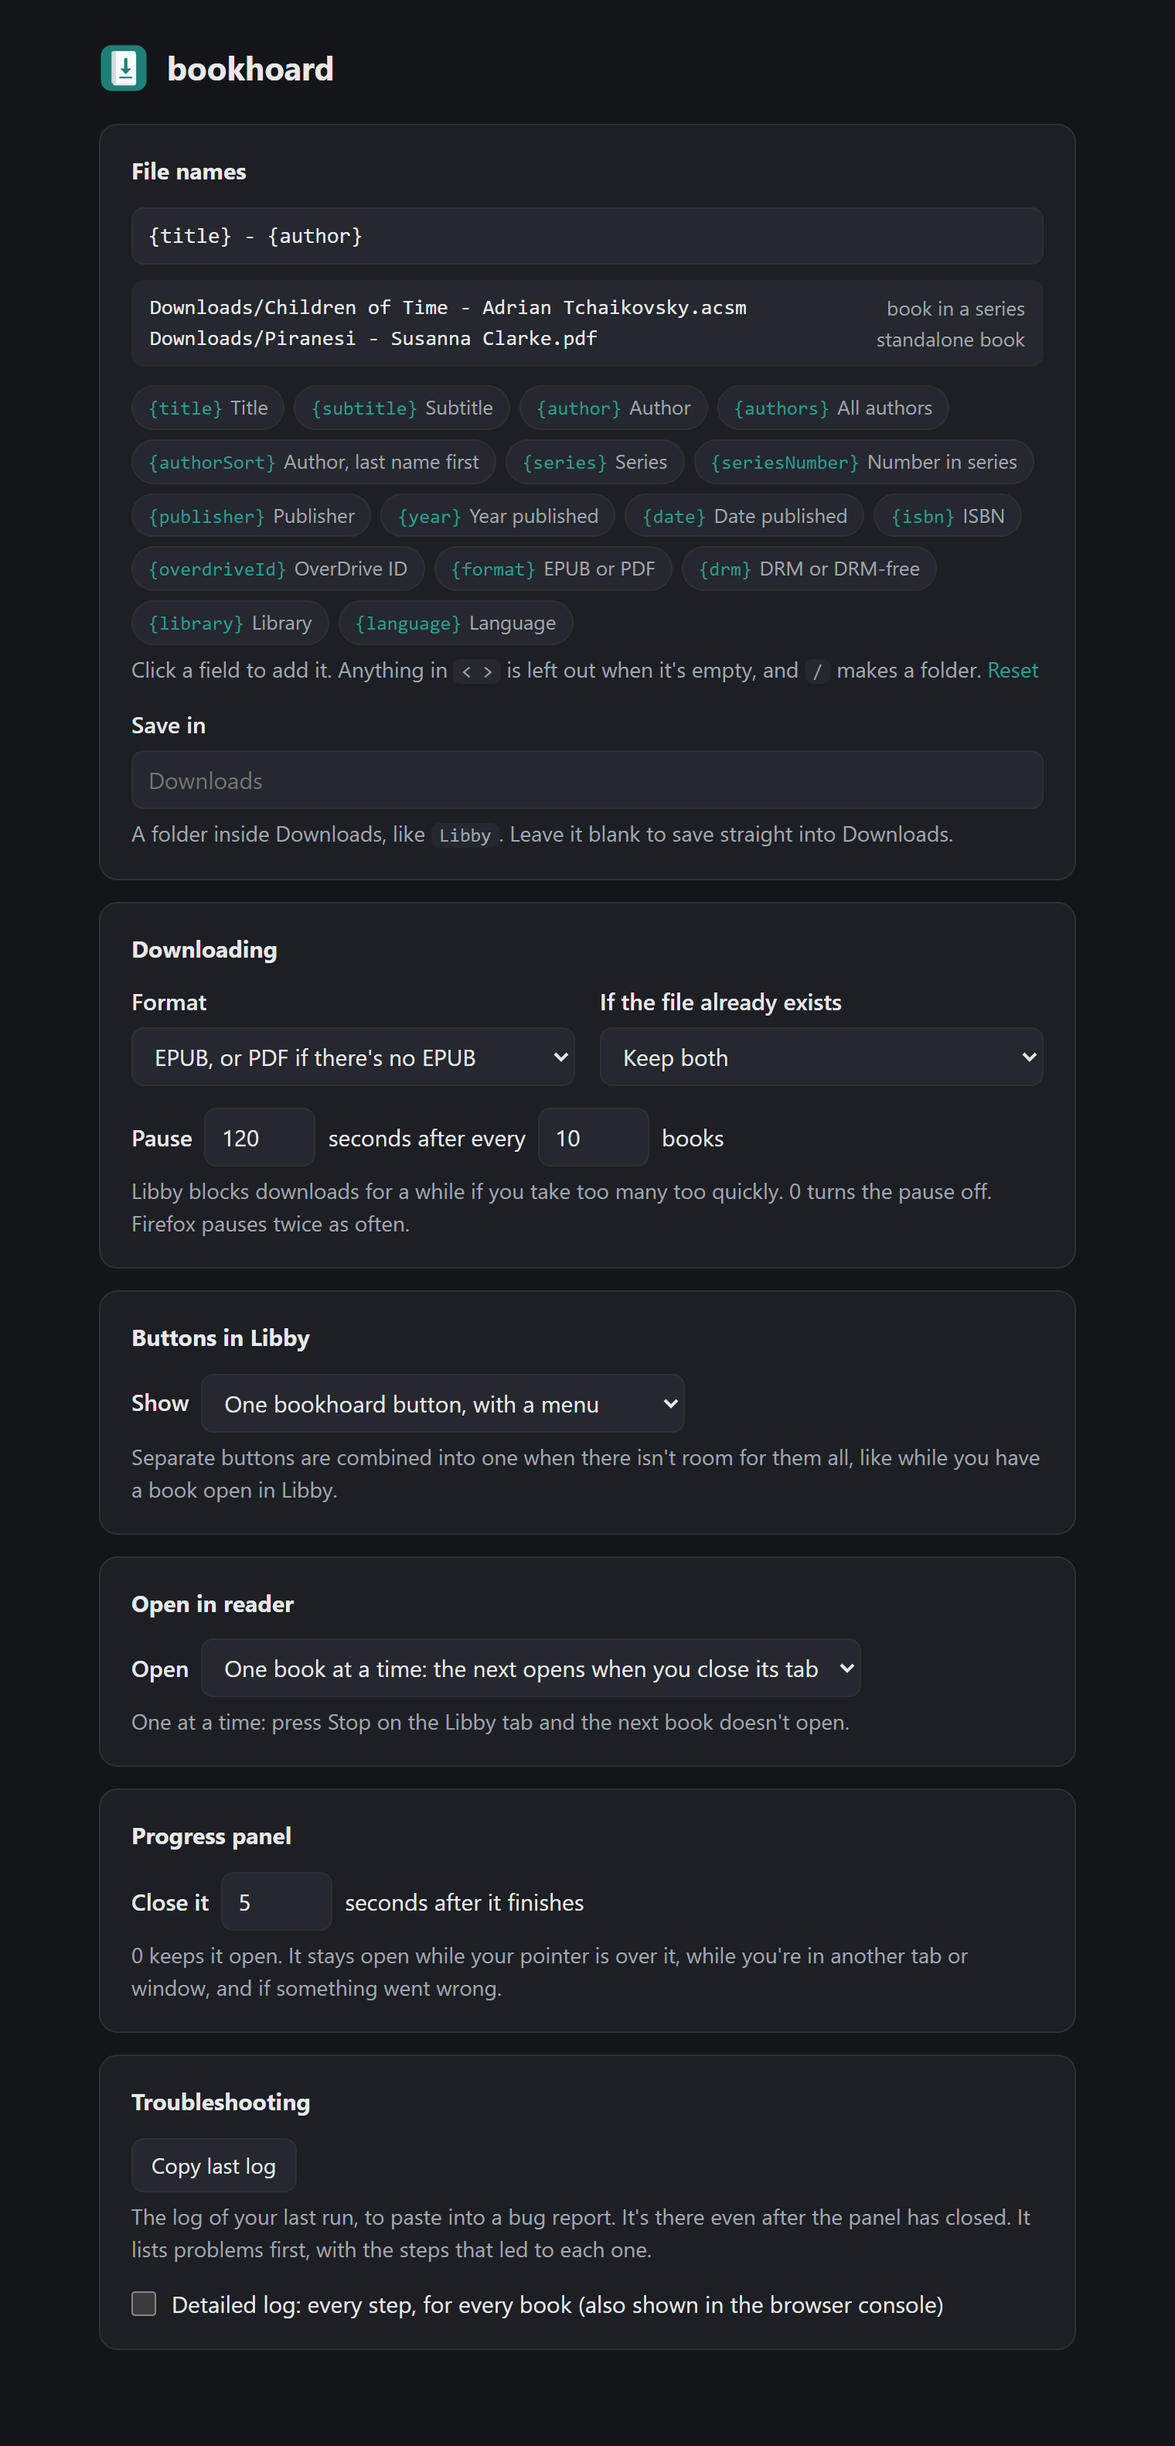
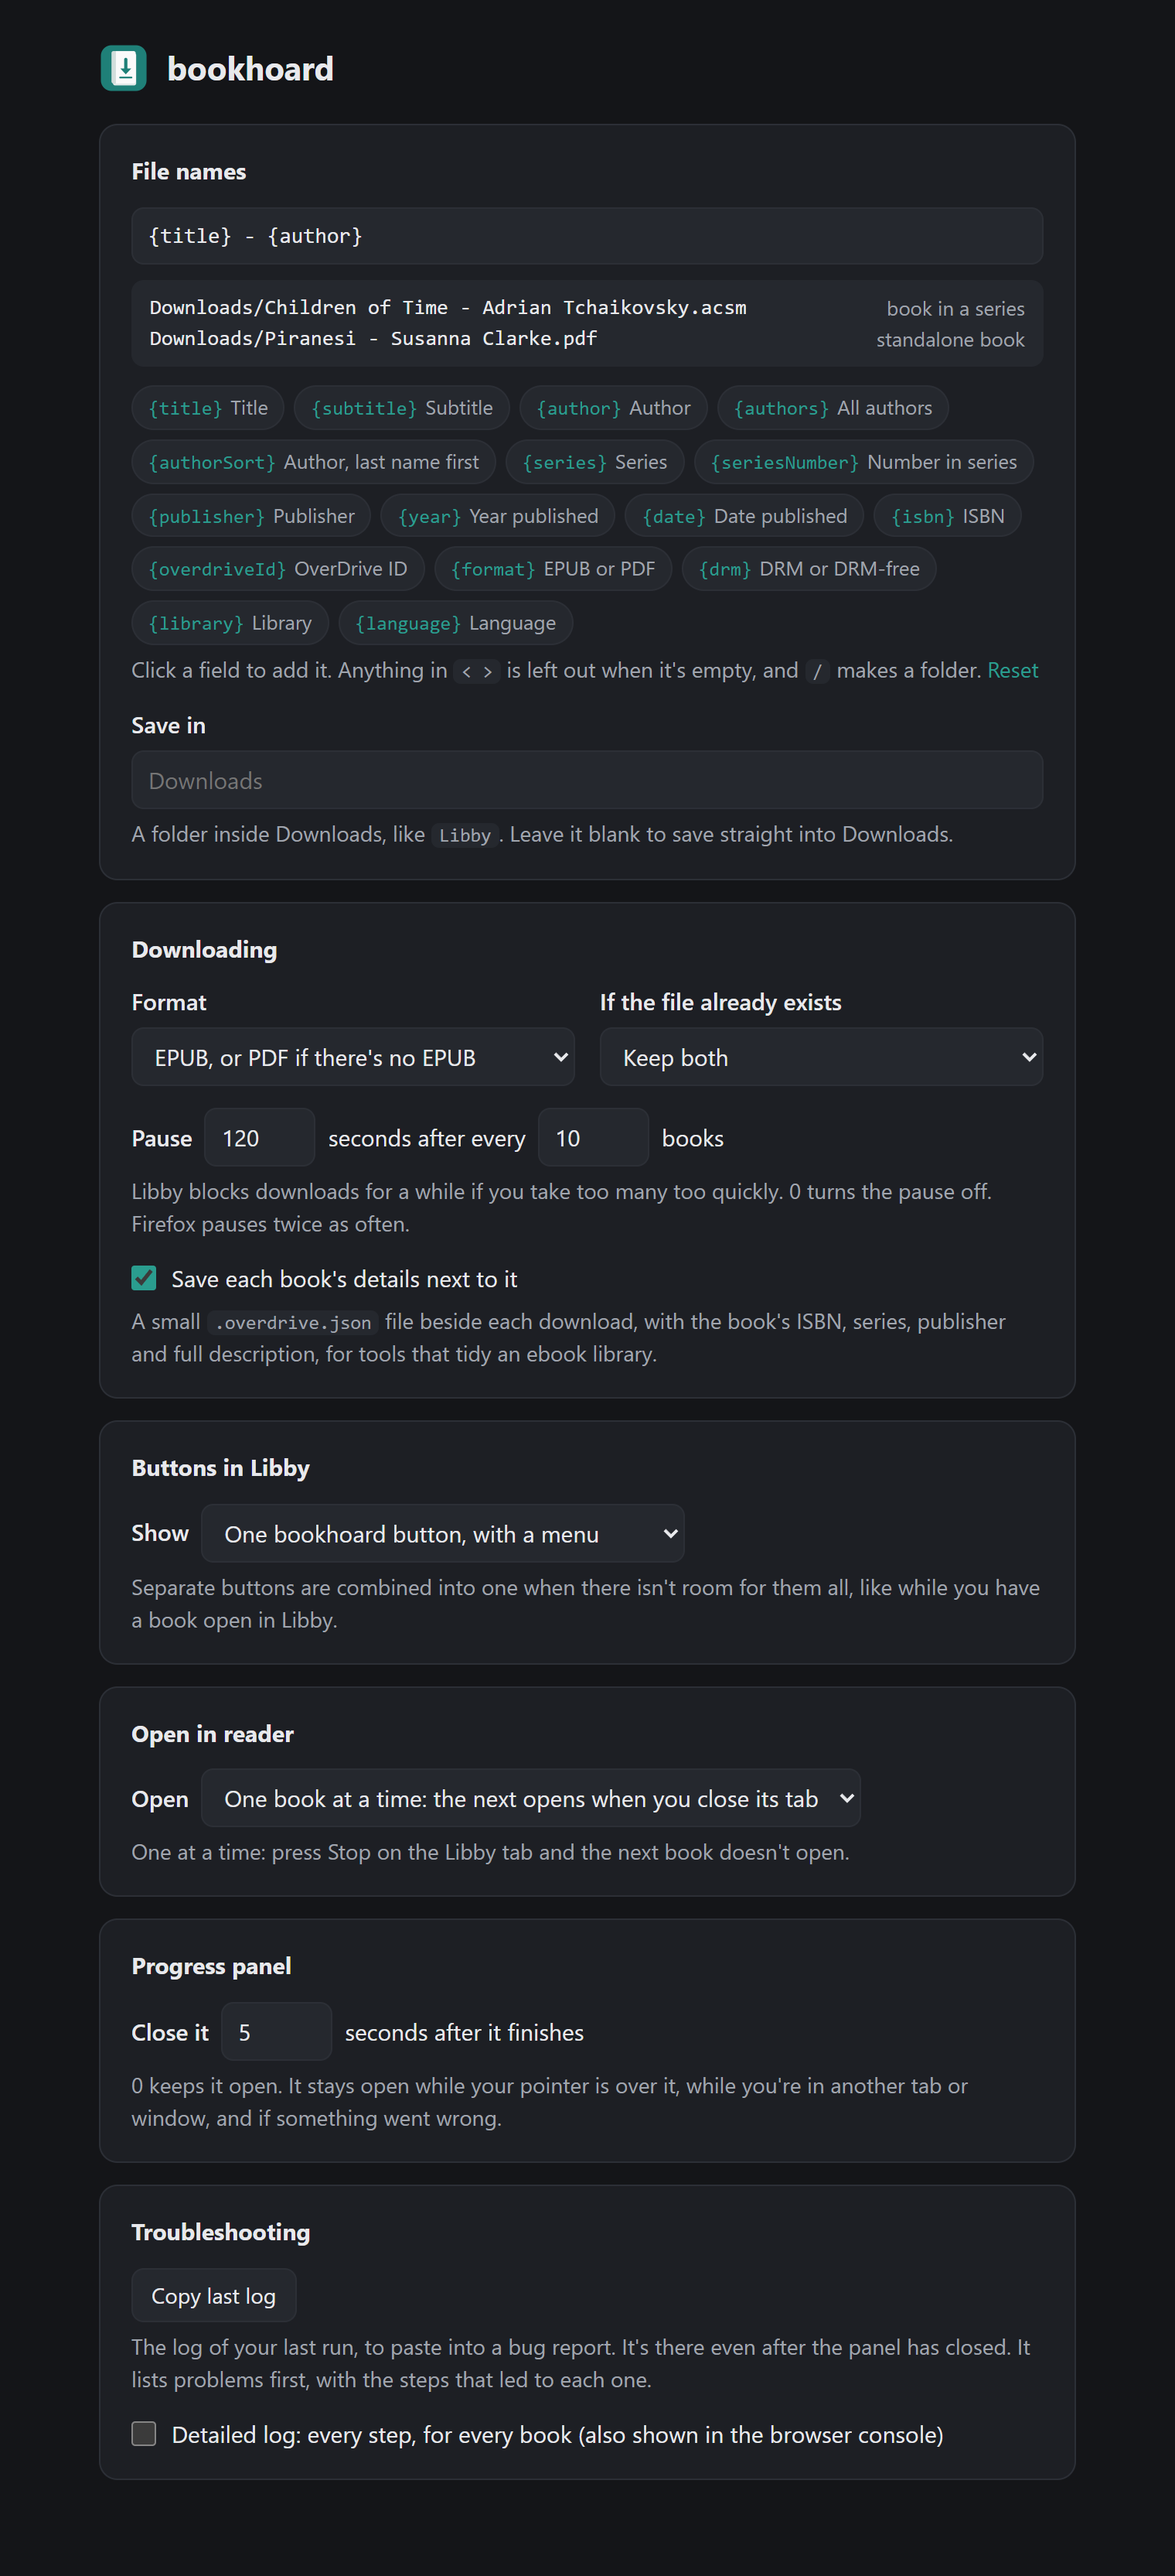
Save each book's details next to its download
A <book name>.overdrive.json file beside each finished download, with the book's
OverDrive ID, ISBNs, title, authors, series and number, publisher, date, subjects and
full description, so an ebook manager can tidy the book without guessing its edition.
On by default; 'Save each book's details next to it' in the options turns it off. The
file's entry is cleared from the browser's download list; the file stays.

diff --git a/src/background.js b/src/background.js
@@ -2,7 +2,7 @@
 // questions (book details, was this already downloaded, which format is about to be chosen).
 
 import { DEFAULTS, buildPath } from './template.js';
-import { fetchMedia, formatIds, parseFulfillUrl, variables } from './metadata.js';
+import { detailsFile, fetchMedia, formatIds, parseFulfillUrl, variables } from './metadata.js';
 
 const api = globalThis.browser ?? globalThis.chrome;
 const sessionStore = api.storage.session ?? api.storage.local;
@@ -67,6 +67,7 @@ function remembered(id, book) {
 
 function bookOf(item) {
   if (known.has(item.id)) return known.get(item.id);
+  if (detailsDownloads.has(item.id) || detailsNames.has(item.url)) return null;  // our own details files
   for (const u of [item.url, item.finalUrl]) {
     if (!u) continue;
     const link = parseFulfillUrl(u) ? u : redirectedFrom.get(u);
@@ -103,6 +104,7 @@ async function targetFor(book) {
   const vars = variables(details, download, format);
   if (!vars.title) vars.title = shortUrl(url).split('_')[0];
   const filename = buildPath(settings, vars, download.ext);
+  book.filename = filename;  // the details file goes next to it
   log('naming', shortUrl(url), '->', filename, vars);
   await remember({ from: shortUrl(url), to: filename, lookedUp: !!details });
   return { filename, conflictAction: settings.conflict };
@@ -139,13 +141,51 @@ function recordDownload(overdriveId, downloadId) {
   return recordQueue;
 }
 
+// ---- Book details files ---------------------------------------------------------------------
+//
+// With "Save each book's details next to it" on, a finished book gets <its name>.overdrive.json
+// beside it: ISBN, series, publisher, the full description and so on, straight from OverDrive's
+// catalog, so an ebook manager can tidy it without guessing the edition. The file's entry is then
+// cleared from the browser's download list (the file stays), so the list shows only books.
+
+const detailsDownloads = new Set();
+const detailsNames = new Map();  // details file address -> its name (Chrome asks the naming hook below)
+async function saveDetails(book) {
+  const settings = await getSettings();
+  if (!settings.saveDetails || !book.filename || book.detailsSaved) return;
+  book.detailsSaved = true;
+  try {
+    const json = JSON.stringify(detailsFile(await media(book.download.overdriveId), book.download), null, 2);
+    // Chrome's background has no Blob URLs; Firefox's downloads refuse data: URLs.
+    const url = typeof URL.createObjectURL === 'function'
+      ? URL.createObjectURL(new Blob([json], { type: 'application/json' }))
+      : `data:application/json;charset=utf-8,${encodeURIComponent(json)}`;
+    const filename = book.filename.replace(/\.(acsm|epub|pdf)$/i, '') + '.overdrive.json';
+    detailsNames.set(url, filename);
+    const id = await api.downloads.download({ url, filename, conflictAction: 'overwrite', saveAs: false });
+    detailsDownloads.add(id);
+    log('saved details:', filename);
+  } catch (err) {
+    fail(`could not save the details file for ${book.download.overdriveId}:`, err);
+  }
+}
+
 // Remember finished downloads by book, so "already downloaded" works whatever address the browser
-// recorded.
+// recorded; and save the book's details file next to it.
 api.downloads.onChanged.addListener(async delta => {
   if (delta.state?.current !== 'complete') return;
   const [item] = await api.downloads.search({ id: delta.id });
+  if (detailsDownloads.has(delta.id) || detailsNames.has(item?.url)) {
+    detailsDownloads.delete(delta.id);
+    if (item?.url?.startsWith('blob:')) URL.revokeObjectURL(item.url);
+    detailsNames.delete(item?.url);
+    await api.downloads.erase({ id: delta.id }).catch(() => {});
+    return;
+  }
   const book = item && bookOf(item);
-  if (book) await recordDownload(book.download.overdriveId, delta.id);
+  if (!book) return;
+  await recordDownload(book.download.overdriveId, delta.id);
+  await saveDetails(book);
 });
 
 // OverDrive's download server answers 429 Too Many Requests when books are fetched too fast.
@@ -169,6 +209,11 @@ let retryRenames = async () => 0;
 if (api.downloads.onDeterminingFilename) {
   // Chrome and Edge: suggest the name as the download starts.
   api.downloads.onDeterminingFilename.addListener((item, suggest) => {
+    // A book's details file: Chrome lets this hook overrule the name it was asked for, so give it again.
+    if (detailsNames.has(item.url)) {
+      suggest({ filename: detailsNames.get(item.url), conflictAction: 'overwrite' });
+      return;
+    }
     const book = bookOf(item);
     if (!book) return;  // not a Libby download: leave it alone
     targetFor(book)

diff --git a/src/metadata.js b/src/metadata.js
@@ -32,6 +32,33 @@ export function parseFulfillUrl(url) {
   };
 }
 
+// What goes in the .overdrive.json file saved next to a book: enough for an ebook manager to tidy
+// it without guessing which edition it is.
+export function detailsFile(media, download) {
+  const m = media || {};
+  const v = variables(media, download);
+  return {
+    overdriveId: v.overdriveId,
+    isbn: v.isbn,
+    isbns: [...new Set((m.formats || []).flatMap(f => [f.isbn, ...(f.identifiers || [])
+      .filter(i => i.type === 'ISBN').map(i => i.value)]).filter(Boolean))],
+    title: v.title,
+    subtitle: v.subtitle,
+    authors: v.authors,
+    creators: (m.creators || []).map(c => ({ name: c.name, role: c.role })),
+    series: v.series,
+    seriesNumber: v.seriesNumber,
+    publisher: v.publisher,
+    date: v.date || (m.publishDateText || ''),
+    language: v.language,
+    subjects: (m.subjects || []).map(s => s.name),
+    description: m.fullDescription || m.description || '',
+    format: v.format,
+    drm: v.drm,
+    savedBy: 'bookhoard',
+  };
+}
+
 function lastNameFirst(name) {
   const parts = name.trim().split(/\s+/);
   return parts.length > 1 ? `${parts[parts.length - 1]}, ${parts.slice(0, -1).join(' ')}` : name;

diff --git a/src/options.js b/src/options.js
@@ -2,7 +2,7 @@ import { DEFAULTS, VARIABLES, SAMPLE, buildPath, unknownVariables } from './temp
 
 const api = globalThis.browser ?? globalThis.chrome;
 const $ = id => document.getElementById(id);
-const FIELDS = ['folder', 'template', 'formatOrder', 'conflict', 'batchPause', 'batchSize', 'autoClose', 'footerButtons', 'readerTabs', 'debug'];
+const FIELDS = ['folder', 'template', 'formatOrder', 'conflict', 'saveDetails', 'batchPause', 'batchSize', 'autoClose', 'footerButtons', 'readerTabs', 'debug'];
 
 // A second example with no series and a DRM-free PDF, to show optional parts dropping out.
 const STANDALONE = {

diff --git a/src/options.html b/src/options.html
@@ -124,6 +124,11 @@
       <p class="help">Libby blocks downloads for a while if you take too many too quickly. 0 turns the pause
         off. Firefox pauses twice as often.</p>
     </div>
+    <div class="field">
+      <label class="check"><input type="checkbox" id="saveDetails"> Save each book's details next to it</label>
+      <p class="help">A small <code>.overdrive.json</code> file beside each download, with the book's ISBN,
+        series, publisher and full description, for tools that tidy an ebook library.</p>
+    </div>
   </section>
 
   <section>

diff --git a/src/template.js b/src/template.js
@@ -8,6 +8,7 @@ export const DEFAULTS = {
   template: '{title} - {author}',
   formatOrder: 'epub-pdf',         // 'epub-pdf' | 'epub' | 'pdf-epub'
   conflict: 'uniquify',            // 'uniquify' | 'overwrite'
+  saveDetails: true,               // save each book's details (.overdrive.json) next to it
   batchSize: 10,                   // pause after this many books...
   batchPause: 120,                 // ...for this many seconds (0 = never pause)
   autoClose: 5,                    // close the panel this many seconds after a run (0 = keep it open)

diff --git a/README.md b/README.md
@@ -78,6 +78,11 @@ Most books come as an `.acsm` file. Open it in
 [Adobe Digital Editions](https://www.adobe.com/solutions/ebook/digital-editions.html) to get the
 book itself. A few come as a plain `.epub` or `.pdf`, ready to read.
 
+Next to each book, bookhoard saves a small `.overdrive.json` file with the book's details from
+Libby's catalog: ISBN, series and number, publisher, date and the full description. Tools that tidy
+an ebook library can use it to fill in the right details. Turn it off in the options if you don't
+want it.
+
 Libby blocks downloads for a while if you take too many too quickly, so bookhoard takes a short
 break every few books (2 minutes after every 10, unless you change it in the options). If Libby
 asks it to slow down anyway, bookhoard waits two minutes and carries on.
@@ -157,6 +162,7 @@ Click the bookhoard icon in your browser's toolbar.
 - **Save in**: a folder inside your Downloads folder.
 - **Format**: EPUB or PDF first, or EPUB only. **If the file already exists**: keep both, or
   replace it.
+- **Save each book's details next to it**: the `.overdrive.json` file beside each download.
 - **Pause … seconds after every … books**: the downloads' break. 0 turns it off.
 - **Buttons in Libby**: one bookhoard button with a menu, or separate buttons.
 - **Open in reader**: one book at a time, or all at once.
